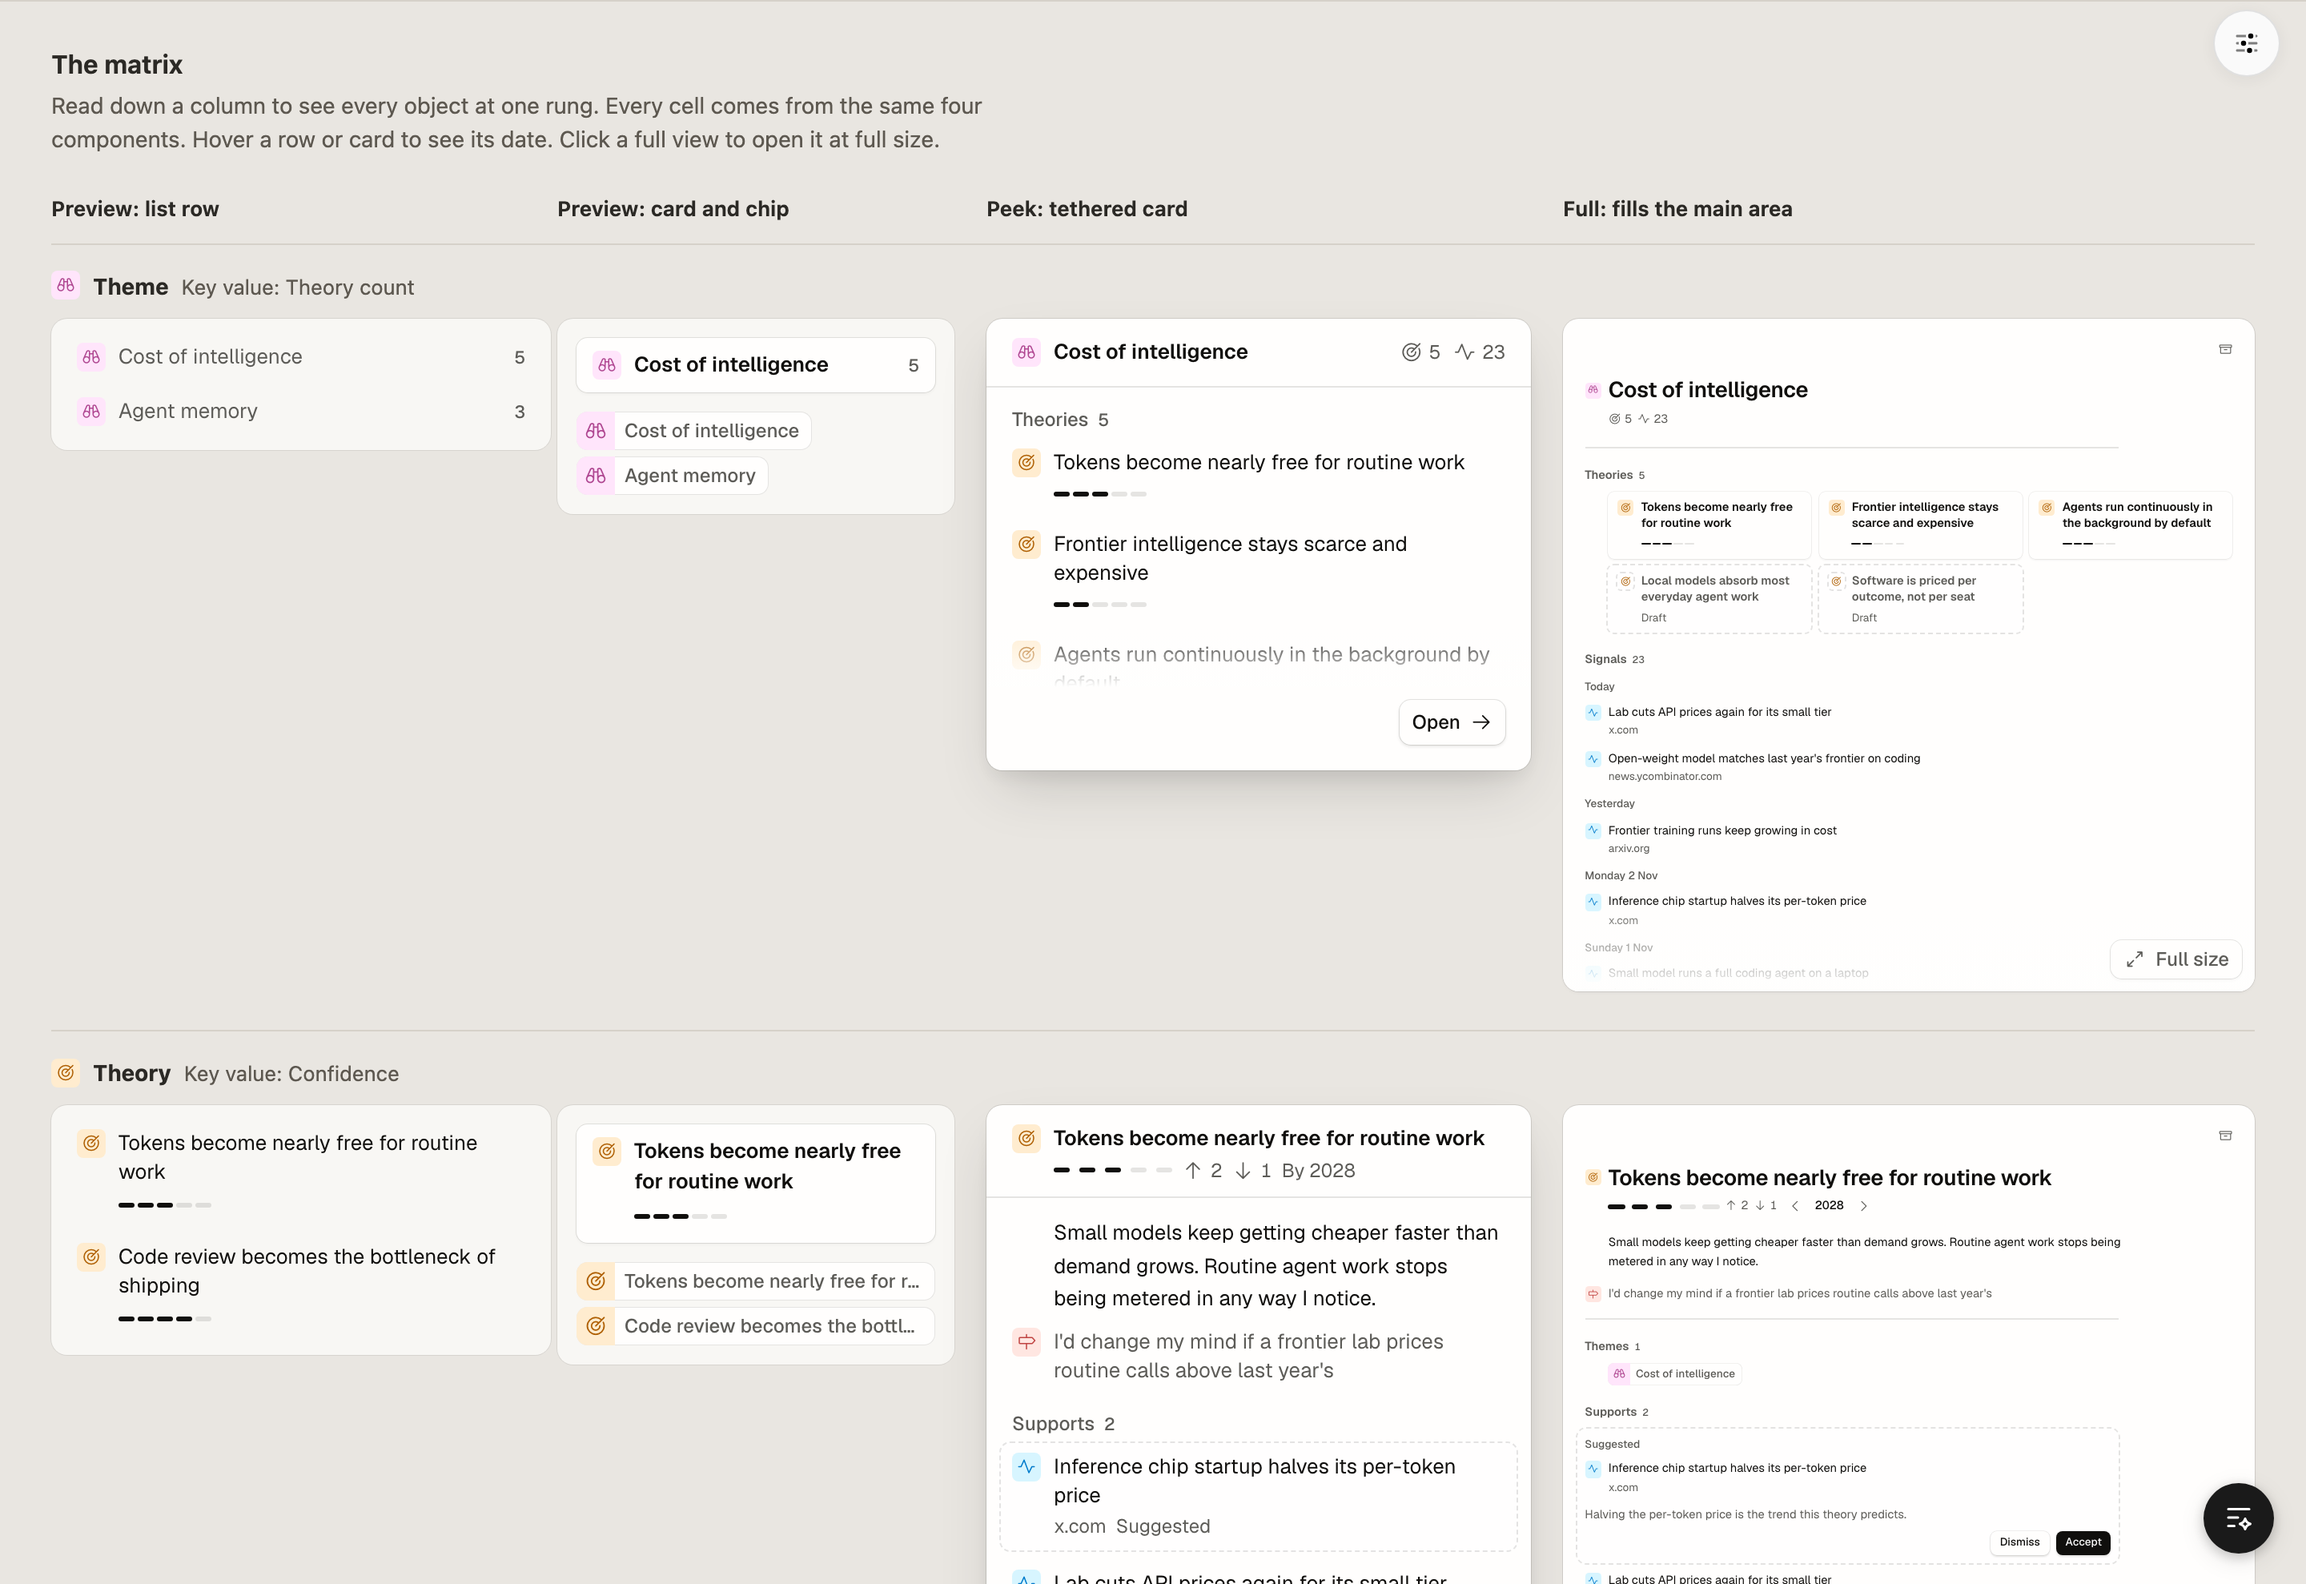
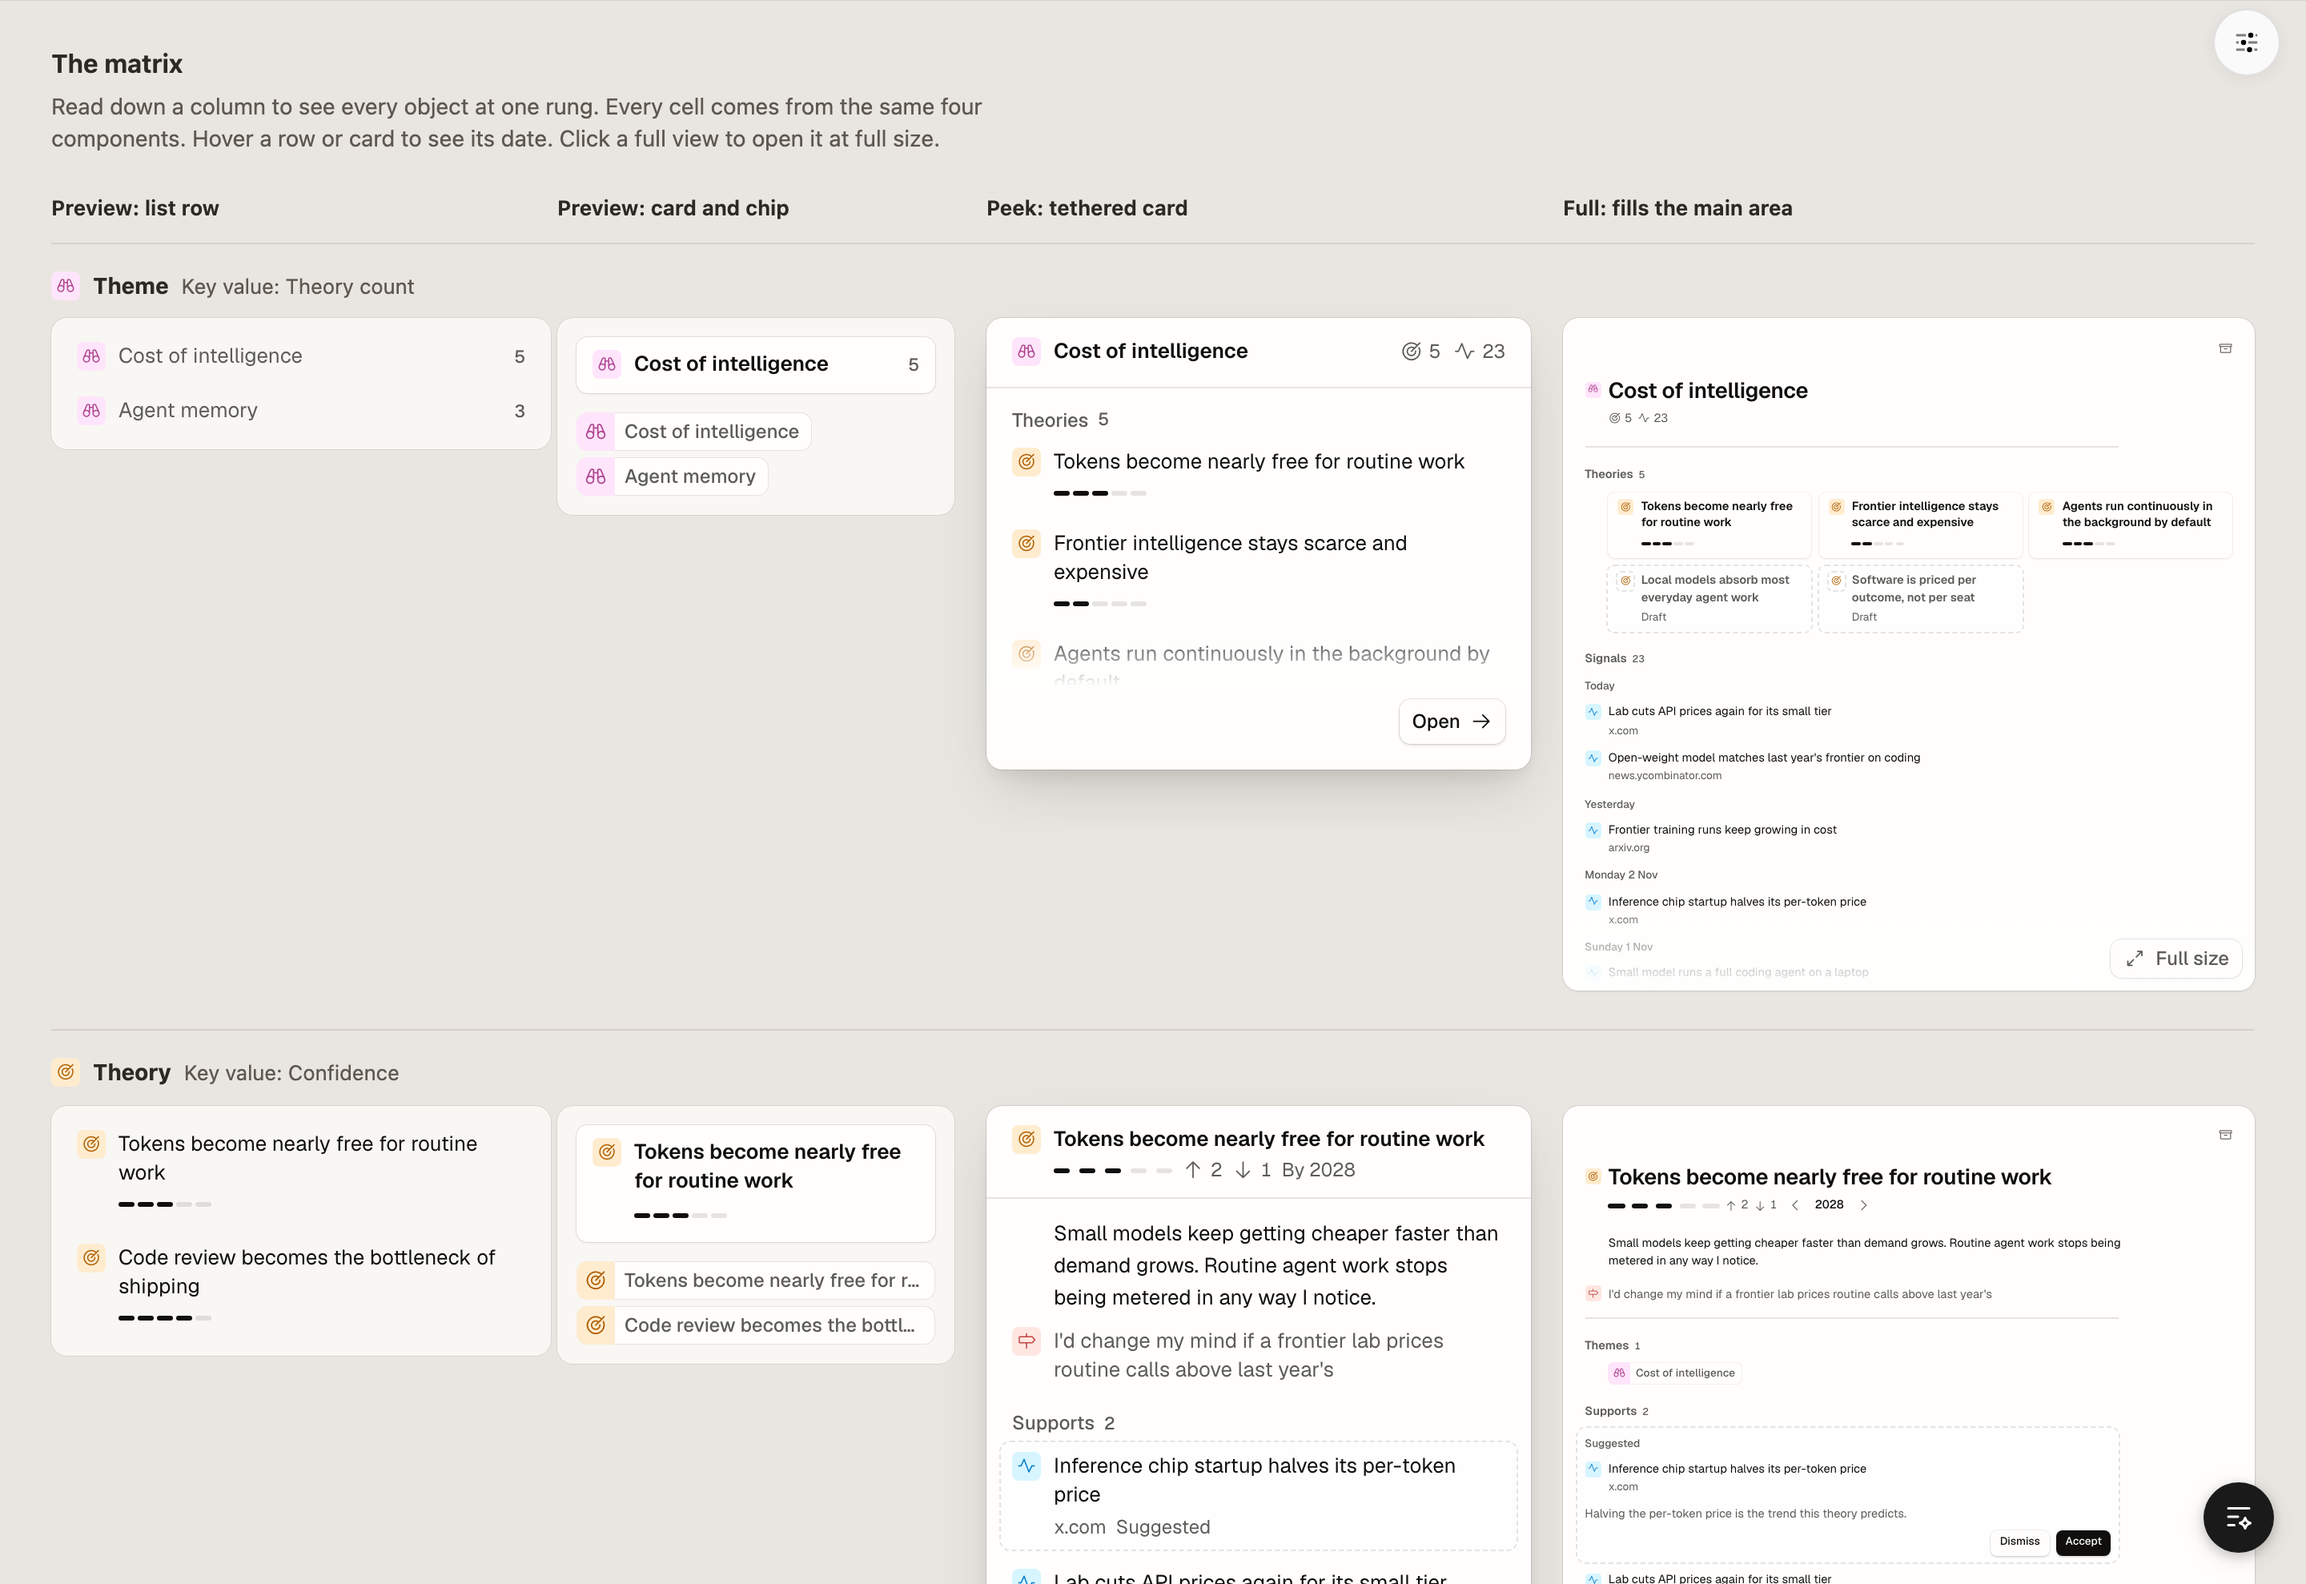
Grammar 06: one fade rule for every peek

diff --git a/design/grammar/06-objects/index.html b/design/grammar/06-objects/index.html
@@ -101,7 +101,7 @@
 
 <section class="jig-section" id="context">
   <h2>In context</h2>
-  <p>The type-first default view with the new rows, peeks and full views. It opens on Briefing. Pick a type in the rail, then an item. Point at or click any row, card or chip in the main area to peek; Open goes there, and Back returns. This window follows the three picks.</p>
+  <p>The type-first default view with the new rows, peeks and full views. It opens on Briefing, the first item in the rail. Pick a type in the rail, then an item. Point at or click any row, card or chip in the main area to peek; Open goes there, and Back returns. This window follows the three picks.</p>
   <div class="ob-host" id="hero" data-follows-picks data-ob='{"frame":"app","type":"home"}'></div>
   <h3 class="sub">Columns, with the same previews</h3>
   <p class="lede">Columns keeps today's layout and docked pane; only the objects change. Themes are one-line rows, theories are cards, and the pane holds the full view. Click a card to open it in the pane.</p>
@@ -150,7 +150,7 @@
 <section class="jig-section" id="fresh" data-decision="fresh" data-question="3. How does unseen activity show on objects, if at all?" data-default="a Nothing on objects">
   <p class="lede">The dot meant "arrived since you last looked": a signal you haven't seen, or a theme with signals you haven't seen (design model: a signal's seen state; a theme's new count). Each window shows the Themes list and Cost of intelligence, which has 3 unseen signals.</p>
   <div class="jig-compare" style="--jig-min:100%">
-    <div class="jig-option" data-option="a Nothing on objects"><div class="jig-label"><b>a</b> Nothing on objects: Briefing home is where new things are shown</div><p class="jig-note">Objects look the same seen or unseen. "Aber" in the rail opens Briefing, which lists new signals by theme.</p>
+    <div class="jig-option" data-option="a Nothing on objects"><div class="jig-label"><b>a</b> Nothing on objects: Briefing home is where new things are shown</div><p class="jig-note">Objects look the same seen or unseen. Briefing, the first item in the rail, lists new signals by theme.</p>
       <div class="ob-host" data-option-stage data-ob='{"frame":"app","type":"theme","opt":{"fresh":"none"}}'></div></div>
     <div class="jig-option" data-option="b Unread weight"><div class="jig-label"><b>b</b> Unread weight, like an inbox</div><p class="jig-note">The name of an object with unseen activity is ink at 600; seen ones stay at their usual weight. No extra mark.</p>
       <div class="ob-host" data-option-stage data-ob='{"frame":"app","type":"theme","opt":{"fresh":"weight"}}'></div></div>

diff --git a/design/grammar/06-objects/objects.js b/design/grammar/06-objects/objects.js
@@ -224,8 +224,8 @@
     const r = relsOf(o).find(([label, items, how]) => how !== "chips" && (items.length || (o.kind === "theory" && stanceOf(label) && sugsFor(o, stanceOf(label)).length))); if (!r) return "";
     const [label, held] = r, sugs = o.kind === "theory" && stanceOf(label) ? sugsFor(o, stanceOf(label)) : [];
     const items = [...sugs.map(x => ({ ...O[x.s], _sug: true })), ...held], extra = items.length - 3;
-    return `<div class="ob-pk-rel${extra > 0 ? " has-more" : ""}"><div class="ob-label">${label}<span class="ob-n">${held.length}</span></div>
-      <div class="ob-pk-list">${items.map((x, i) => row(x._sug ? O[x.id] : x, { omit: "when", cls: `${i >= 3 ? "extra" : ""}${x._sug ? " suggested" : ""}`.trim() })).join("")}${extra > 0 ? '<span class="ob-fade" aria-hidden="true"></span>' : ""}</div>
+    return `<div class="ob-pk-rel"><div class="ob-label">${label}<span class="ob-n">${held.length}</span></div>
+      <div class="ob-pk-list">${items.map((x, i) => row(x._sug ? O[x.id] : x, { omit: "when", cls: `${i >= 3 ? "extra" : ""}${x._sug ? " suggested" : ""}`.trim() })).join("")}<span class="ob-fade" aria-hidden="true"></span></div>
 </div>`;
   };
 
@@ -285,5 +285,8 @@
       <header class="ob-hang ob-head">${tile("briefing", ICON.briefing)}<div class="ob-col"><h3 class="ob-title">Since yesterday</h3><div class="ob-meta lg"><span>${BRIEF.reduce((n, [, ids]) => n + ids.length, 0)} changes</span><span>Last looked 18:40</span></div></div></header>
       <div class="ob-body"><div class="ob-rels">${BRIEF.map(([label, ids]) => `<section class="ob-sec"><div class="ob-sh"><span>${label}</span><span class="ob-n">${ids.length}</span></div><div class="ob-rows">${ids.map(id => row(O[id])).join("")}</div></section>`).join("")}</div></div></article>`;
 
-  window.AberObjects = { O, SUG, ICON, all, tile, tileOf, row, card, chip, peek, full, keyOf, statusOf, attrsOf, tripLine, sugBlock, sugsFor, digest, relsOf, DAYS };
+  // One fade rule for every peek: the relations list has one max height; when its rows overflow it, a surface fade rises from its bottom edge
+  const markFades = (root = document) => root.querySelectorAll(".ob-pk-list").forEach(l => l.closest(".ob-pk-rel").classList.toggle("overflows", l.scrollHeight > l.clientHeight + 1));
+  document.fonts?.ready.then(() => markFades()); addEventListener("resize", () => markFades());
+  window.AberObjects = { markFades, O, SUG, ICON, all, tile, tileOf, row, card, chip, peek, full, keyOf, statusOf, attrsOf, tripLine, sugBlock, sugsFor, digest, relsOf, DAYS };
 })();

diff --git a/design/grammar/06-objects/frames.js b/design/grammar/06-objects/frames.js
@@ -19,8 +19,9 @@
     `<button type="button" data-view="${v}" aria-pressed="${v === cur}" aria-label="${l}" data-tip="${l}" data-key="${k}"${v === "atlas" || v === "timeline" ? ' aria-disabled="true"' : ""}><i class="ph${v === cur ? "-fill" : ""} ph-${i}" aria-hidden="true"></i></button>`).join("")}</div>`;
   const countOf = t => TOTAL[t] ?? all(t).filter(o => !o.retired).length;
   const rail = s => `<aside class="nv-rail">
-      <div class="nv-brand"><button type="button" class="nv-home" data-home aria-current="${s.type === "home"}">Aber</button>${ib("magnifying-glass", "Find", "", "⌘K")}</div>
-      <nav class="nv-types" aria-label="Types">${RAIL.map(t => `<button type="button" class="nv-type" data-go="${t}" aria-current="${s.type === t}"><span class="gw">${tile(t, ICON[t])}</span><span class="nm">${NAMES[t][0]}</span><span class="nv-n">${countOf(t)}</span></button>`).join("")}</nav>
+      <div class="nv-brand"><span>Aber</span>${ib("magnifying-glass", "Find", "", "⌘K")}</div>
+      <nav class="nv-types" aria-label="Types">
+        <button type="button" class="nv-type ob-brief" data-home aria-current="${s.type === "home"}"><span class="gw">${tile("briefing", ICON.briefing)}</span><span class="nm">Briefing</span></button>${RAIL.map(t => `<button type="button" class="nv-type" data-go="${t}" aria-current="${s.type === t}"><span class="gw">${tile(t, ICON[t])}</span><span class="nm">${NAMES[t][0]}</span><span class="nv-n">${countOf(t)}</span></button>`).join("")}</nav>
       ${switcher("default")}</aside>`;
 
   /* ── Item list (second sidebar): the new rows. A row never repeats its group header. ── */
@@ -100,6 +101,7 @@
     const at = local(scroller, anchor);
     scroller.insertAdjacentHTML("beforeend", peek(O[id], { rel: s.opt.peek === "rel", cls: "live" }));
     const el = scroller.lastElementChild, W = scroller.clientWidth, top = at.y + scroller.scrollTop;
+    A.markFades(el);
     const left = Math.max(8, Math.min(W - el.offsetWidth - 8, at.x - (anchor.matches(".ob-row") ? 16 - 8 : anchor.matches(".ob-card") ? 16 - 10 : 0)));   // the peek's tile lands on the row's tile
     let y = top + at.h + 4;
     if (y + el.offsetHeight > scroller.scrollTop + scroller.clientHeight - 8 && top - el.offsetHeight - 4 > scroller.scrollTop + 8) { y = top - el.offsetHeight - 4; el.classList.add("up"); }

diff --git a/design/grammar/06-objects/objects.css b/design/grammar/06-objects/objects.css
@@ -149,9 +149,9 @@
 .ob-pk-list { position: relative; display: grid; min-width: 0; }
 /* Relations: as many as fit, then a surface-colour fade rising from the bottom edge (decided 4 Nov). No scroll, no "show more"; Open sits below the fade. */
 :root { --pk-max: 156px; }
-.ob-pk-rel.has-more .ob-pk-list { max-height: var(--pk-max); overflow: hidden; margin-inline: calc(var(--inset-peek) * -1); padding-inline: var(--inset-peek); }
+.ob-pk-list { max-height: var(--pk-max); overflow: hidden; margin-inline: calc(var(--inset-peek) * -1); padding-inline: var(--inset-peek); }
 .ob-fade { display: none; }
-.ob-pk-rel.has-more .ob-fade { display: block; position: absolute; left: 0; right: 0; bottom: 0; height: 40px; pointer-events: none;
+.ob-pk-rel.overflows .ob-fade { display: block; position: absolute; left: 0; right: 0; bottom: 0; height: 40px; pointer-events: none;
   background: linear-gradient(to bottom, color-mix(in oklab, var(--surface) 0%, transparent), var(--surface)); }
 
 .ob-pk-rel .ob-row { margin-inline: calc(var(--inset-row) * -1); }
@@ -279,3 +279,5 @@
 .ob-peek > .ob-div { margin-top: var(--gap-tight); }
 .ob-peek.has-meta > .ob-div { margin-top: 0; }
 [data-align="b"] .ob-peek { padding-top: calc(12px - 2.37px); }   /* b drops the tile 2.37; keep the visual top at 12 */
+/* Briefing is the first rail item (Maggie, 4 Nov); a little space sets it apart from the types */
+.ob-win .nv-type.ob-brief { margin-bottom: var(--gap-item); }

diff --git a/design/grammar/06-objects/page.js b/design/grammar/06-objects/page.js
@@ -99,6 +99,7 @@
     document.fonts.ready.then(mark); addEventListener("resize", mark);
   }
 
+  A.markFades();
   /* Scaled full views fit their cell */
   const fitScaled = () => document.querySelectorAll(".ob-scaled").forEach(b => { const w = b.clientWidth; if (w) b.firstElementChild.style.zoom = Math.min(1, w / 760); });
   new ResizeObserver(fitScaled).observe(document.body); fitScaled();
